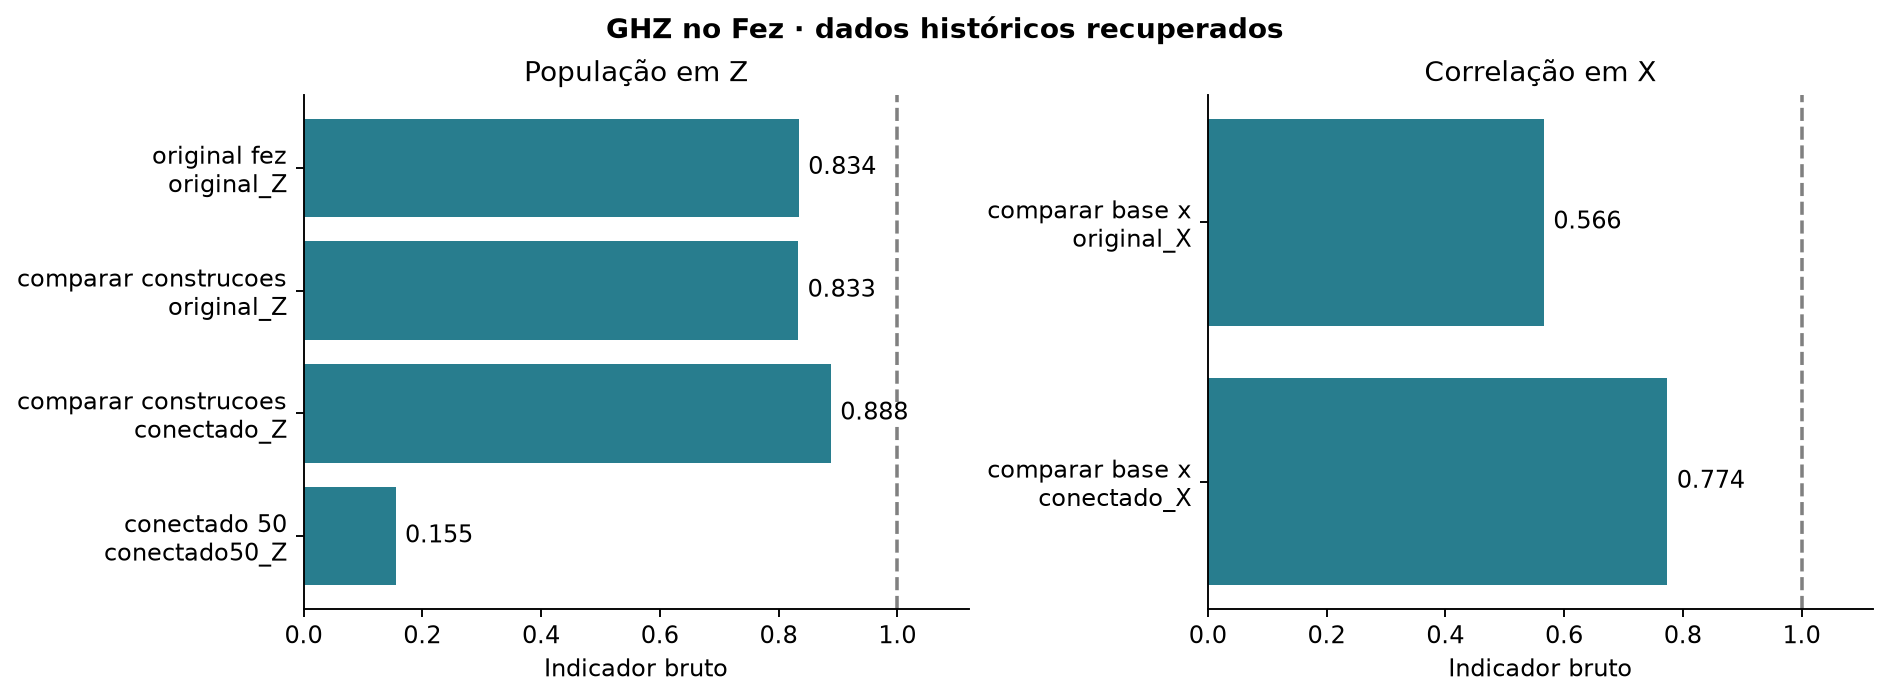
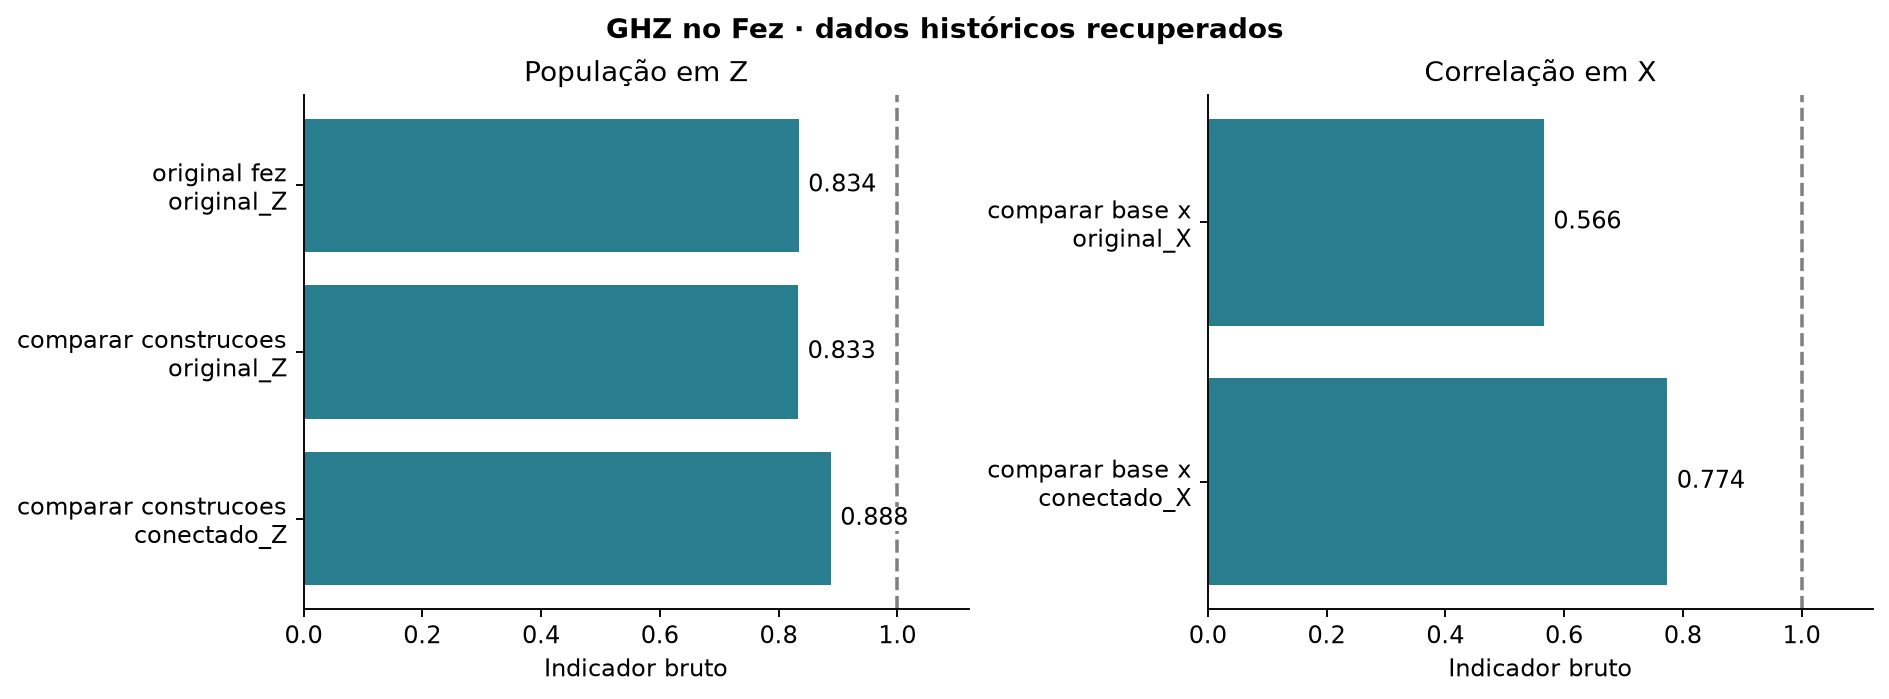
Deixa o experimento 3 só com 5 qubits
Remove a Parte B (GHZ conectado de 50 qubits), que não tinha um original de 50 no
mesmo computador para comparar. Saem também o programa ghz_50_conectado.py, a tabela
correspondente no gerador, a barra de 50 qubits da figura 03 e a frase do relatório.
O job de 50 qubits continua em dados/brutos como registro, sem uso nos relatórios.

diff --git a/quantum-mitigation/scripts/gerar_tabelas.py b/quantum-mitigation/scripts/gerar_tabelas.py
@@ -129,13 +129,6 @@ def t_construcao_cinco():
                    'Profundidade (medindo em X)', 'CX'], corpo, range(1, 6))
 
 
-def t_construcao_cinquenta():
-    l = next(l for l in _linhas('03_ghz_conectado') if l['bits'] == 50)
-    return tabela(['Construção', 'Qubits', 'Portas de 2 qubits', 'Profundidade', 'PZ', 'Computador', 'Dia'],
-                  [('Conectada', l['bits'], l['portas_duplas'], l['profundidade'], num(l['indicador'], 3),
-                    l['backend'], _dia(l['job_id']))], range(1, 5))
-
-
 def t_construcoes_testes():
     """Diferenças entre circuitos, em unidades de erro padrão analítico (só amostragem)."""
     por_circ = {(l['job_id'], l['circuito']): l for l in _linhas('03_ghz_conectado')}
@@ -302,7 +295,7 @@ def t_parametros():
 
 TABELAS = {
     'escala': t_escala, 'rodadas': t_rodadas, 'rodadas_ganho': t_rodadas_ganho, 'rodadas_jobs': t_rodadas_jobs,
-    'construcao_cinco': t_construcao_cinco, 'construcao_cinquenta': t_construcao_cinquenta,
+    'construcao_cinco': t_construcao_cinco,
     'construcoes_testes': t_construcoes_testes, 'cinco_parados': t_cinco_parados, 'um_qubit': t_um_qubit,
     'kingston_dias': t_kingston_dias, 'cinco_conta': t_cinco_conta,
     'cenarios': t_cenarios, 'zne': t_zne, 'zne_blocos': t_zne_blocos,

diff --git a/quantum-mitigation/scripts/visualizar_dados.py b/quantum-mitigation/scripts/visualizar_dados.py
@@ -36,7 +36,7 @@ salvar(fig, '02_controles_reais.png')
 ghz = ler(BASE / 'processados/03_ghz_conectado/resultados_recuperados.json')
 fig, eixos = plt.subplots(1, 2, figsize=(11, 4), layout='constrained')
 for ax, base in zip(eixos, ['Z', 'X']):
-    dados = [r for r in ghz if r['circuito'].endswith('_' + base)]
+    dados = [r for r in ghz if r['circuito'].endswith('_' + base) and r['bits'] == 5]
     nomes = [r['experimento'].replace('_', ' ') + '\n' + r['circuito'] for r in dados]
     valores = [r['indicador'] for r in dados]
     barras = ax.barh(nomes, valores, color='#287d8e')

diff --git a/quantum-mitigation/experimentos/03_ghz_conectado/README.md b/quantum-mitigation/experimentos/03_ghz_conectado/README.md
@@ -1,10 +1,10 @@
 # Experimento 3 · Montar o GHZ com menos passos melhora o resultado?
 
-**Onde e quando:** IBM, `ibm_fez`, 21 de outubro de 2026. Cada circuito foi repetido 1.000 vezes. As contagens foram recuperadas da conta IBM em 2 de novembro de 2026 ([registro de origem](../../dados/registro_origem.json)).
+**Onde e quando:** IBM, `ibm_fez`, 21 de outubro de 2026. GHZ de 5 qubits, cada circuito repetido 1.000 vezes. As contagens foram recuperadas da conta IBM em 2 de novembro de 2026 ([registro de origem](../../dados/registro_origem.json)).
 
 ## Resposta curta
 
-**Com 5 qubits, sim.** A construção que segue as ligações do computador usa 4 portas de dois qubits em vez de 13 e tirou notas melhores nas duas medidas (PZ e CX), com diferença bem maior que a oscilação por sorte. **Com 50 qubits só foi feita a construção nova**, sem uma versão original para comparar: esse resultado fica registrado, mas não prova nada.
+**Sim.** A construção que segue as ligações do computador usa 4 portas de dois qubits em vez de 13 e tirou notas melhores nas duas medidas (PZ e CX), com diferença bem maior que a oscilação por sorte.
 
 ## Pergunta
 
@@ -46,8 +46,6 @@ Medimos de duas formas, a mesma que usamos no resto do projeto ([definições](.
 
 ## Resultado
 
-### Parte A: 5 qubits (a comparação)
-
 <!-- TABELA:construcao_cinco -->
 | Construção | Portas de 2 qubits | Profundidade (medindo em Z) | PZ | Profundidade (medindo em X) | CX |
 | --- | ---: | ---: | ---: | ---: | ---: |
@@ -59,7 +57,7 @@ A conectada tem 9 portas de dois qubits a menos, o que equivale a 3 trocas de lu
 
 ![Circuitos do experimento 3](../../figuras/03_construcoes_reais.png)
 
-*À esquerda, PZ; à direita, CX. Cada barra é um circuito real, e a linha em 1 marca o ideal. A barra de 50 qubits é a conectada, que não tem um original de 50 qubits para comparar.*
+*À esquerda, PZ; à direita, CX. Cada barra é um circuito real, e a linha em 1 marca o ideal.*
 
 **A diferença é maior que a sorte?** Comparamos cada diferença com o seu erro padrão (quanto o número oscila só pela amostra, ver [indicadores](../../fundamentos/indicadores.md)):
 
@@ -73,23 +71,12 @@ A conectada tem 9 portas de dois qubits a menos, o que equivale a 3 trocas de lu
 
 A primeira linha é uma checagem: o **mesmo circuito original**, em dois jobs no mesmo dia, deu valores quase iguais. Isso indica que a repetição é estável nesse intervalo. As duas diferenças entre construções ficam acima de 3 erros padrão.
 
-### Parte B: 50 qubits (só registro, sem comparação)
-
-<!-- TABELA:construcao_cinquenta -->
-| Construção | Qubits | Portas de 2 qubits | Profundidade | PZ | Computador | Dia |
-| --- | ---: | ---: | ---: | ---: | --- | --- |
-| Conectada | 50 | 49 | 56 | 0,155 | ibm_fez | 21/10/2026 |
-<!-- /TABELA:construcao_cinquenta -->
-
-Aqui só rodamos a versão **conectada**. Não rodamos o original de 50 qubits no Fez, então não dá para dizer se a conectada foi melhor. O experimento 1 usou 50 qubits na versão original, mas provavelmente em outro computador e em outra data, então também não serve de comparação. Este número fica como registro de que a construção foi executada com 50 qubits.
-
 ## Conclusão
 
-1. **Com 5 qubits, menos portas deram notas melhores**, no PZ e no CX, com diferenças acima de 3 erros padrão.
+1. **Menos portas deram notas melhores**, no PZ e no CX, com diferenças acima de 3 erros padrão.
 2. **Não sabemos o que explica a melhora.** As portas, a profundidade e o tempo em que os qubits esperam mudam todos juntos. O experimento não separa um do outro.
 3. **Cada comparação foi feita uma vez, em um dia só.** Não repetimos em outros dias.
-4. **Os 50 qubits não entram na conclusão**, pelo motivo da Parte B.
-5. **O que falta para generalizar** (ainda não feito): rodar o original e o conectado em vários tamanhos (por exemplo 10, 20, 30 e 50 qubits), no mesmo computador e no mesmo dia.
+4. **Só testamos 5 qubits.** Para saber se a vantagem se mantém em circuitos maiores, seria preciso rodar o original e o conectado em outros tamanhos, no mesmo computador e no mesmo dia. Isso ainda não foi feito.
 
 ## Próximo passo
 
@@ -102,10 +89,9 @@ Reduzir os passos ajuda. Dá para também corrigir o erro de leitura? [Experimen
 | `ghz_05_original_fez.py` | O GHZ original de 5 qubits no Fez. |
 | `comparar_construcoes.py` | Compara a original com as conectadas (medindo em Z) e escolhe a de menos portas de dois qubits. |
 | `comparar_base_x.py` | A mesma comparação, medindo em X. |
-| `ghz_50_conectado.py` | O GHZ conectado de 50 qubits. |
-| [Contagens e circuitos](../../dados/README.md#03--construções-do-ghz) | Quatro jobs (JSON e QPY). |
+| [Contagens e circuitos](../../dados/README.md#03--construções-do-ghz) | Os jobs de 5 qubits (JSON e QPY). |
 | [resultados_recuperados.json](../../dados/processados/03_ghz_conectado/resultados_recuperados.json) | Uma linha por circuito. |
 
-**Execução:** os quatro programas **enviam jobs à IBM**.
+**Execução:** os três programas **enviam jobs à IBM**.
 
 [Experimentos](../README.md)

diff --git a/quantum-mitigation/docs/relatorio.md b/quantum-mitigation/docs/relatorio.md
@@ -146,8 +146,7 @@ Com erro só na leitura, a calibração recupera PZ = 1. Com erro também nas po
 
 **Limitações.**
 
-1. **Backends e datas.** Os experimentos 2 a 4 usam equipamentos e dias diferentes. O GHZ conectado de 50 qubits (Fez) **não é comparável** à série de escala (código para Kingston).
-2. **Poucas repetições.** Três rodadas, três blocos simulados, um job por comparação no experimento 3. O bootstrap não inclui deriva do equipamento entre dias.
+1. **Backends e datas.** Os experimentos 2 a 4 usam equipamentos e dias diferentes.2. **Poucas repetições.** Três rodadas, três blocos simulados, um job por comparação no experimento 3. O bootstrap não inclui deriva do equipamento entre dias.
 3. **Quasiprobabilidades.** Estimativas ajustadas podem ter componentes negativas ou indicadores acima de 1. Não as recortamos.
 4. **Modelo sintético.** As magnitudes da simulação não valem para o Fez. A auditoria registra um desvio de até 3,2 erros padrão em relação ao modelo exato, com critério amplo de sanidade, que não é teste de cobertura.
 5. **ZNE.** A extrapolação linear tem viés e amplia a incerteza.

diff --git a/quantum-mitigation/dados/README.md b/quantum-mitigation/dados/README.md
@@ -62,7 +62,7 @@ Recuperados da IBM em 2 de novembro de 2026. Todos no ibm_fez.
 | `brutos/03_ghz_conectado/dbccaqpgv2cc73ea21fg` | GHZ original de 5 qubits |
 | `brutos/03_ghz_conectado/dbcccpc24mrc73cjb6bg` | original e conectado, medidos em Z |
 | `brutos/03_ghz_conectado/dbcco2fi0auc73dum8i0` | original e conectado, medidos em X |
-| `brutos/03_ghz_conectado/dbch2kpgv2cc73eabim0` | GHZ conectado de 50 qubits |
+| `brutos/03_ghz_conectado/dbch2kpgv2cc73eabim0` | GHZ conectado de 50 qubits (guardado como registro; não é usado nos relatórios) |
 
 Figura: [03_construcoes_reais](../figuras/03_construcoes_reais.png).
 
